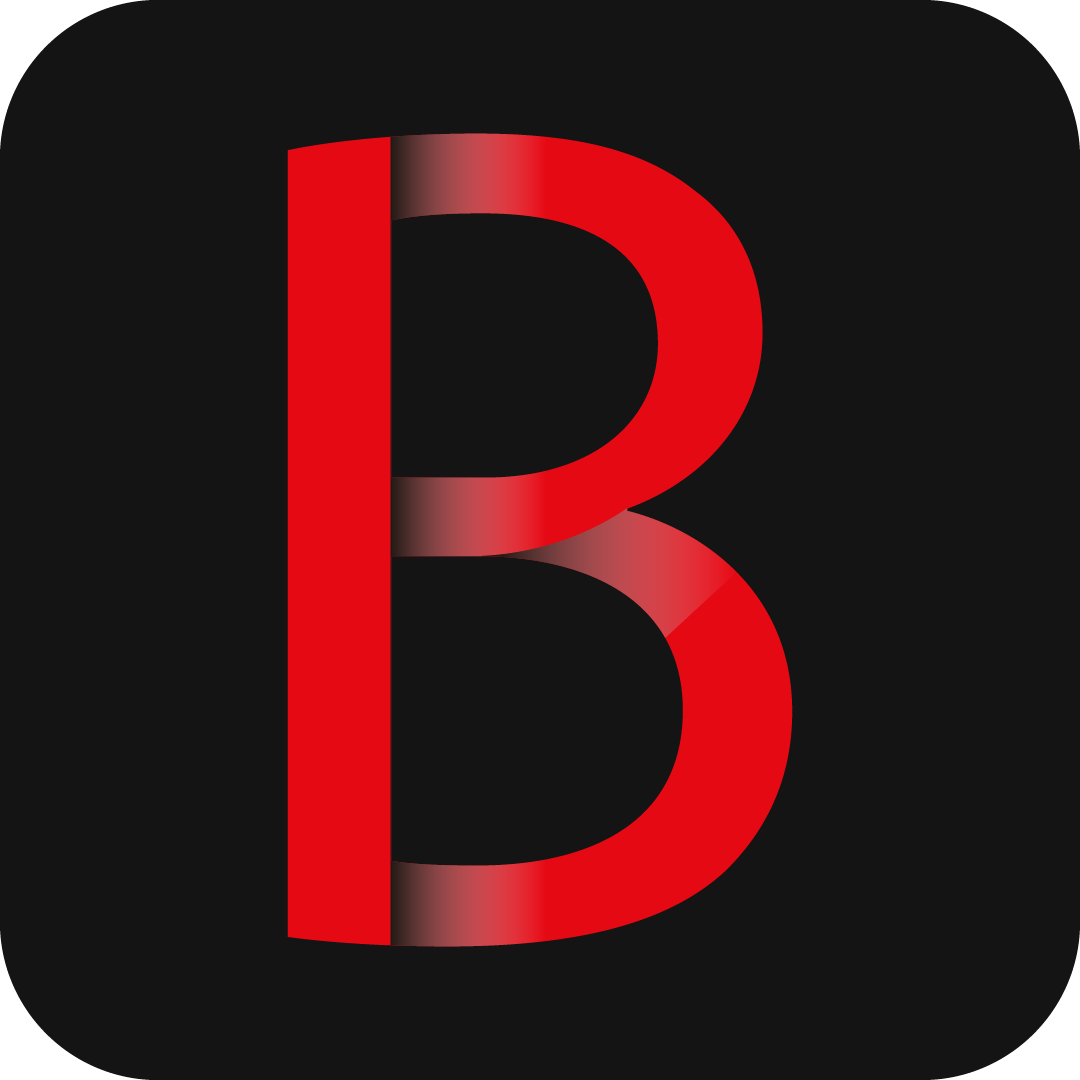
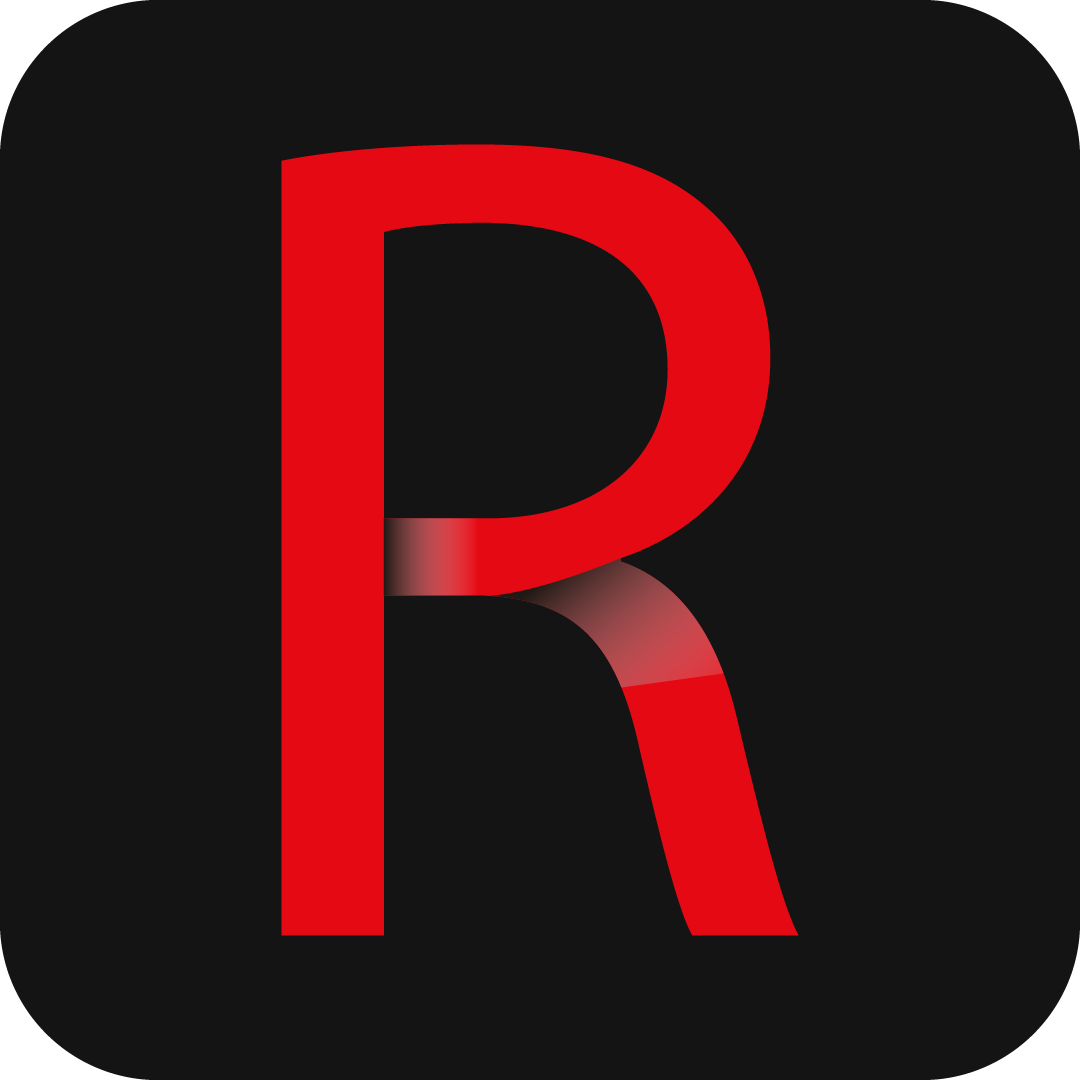
rocketflix blasted!

diff --git a/public/index.html b/public/index.html
@@ -25,7 +25,7 @@
       work correctly both with client-side routing and a non-root public URL.
       Learn how to configure a non-root public URL by running `npm run build`.
     -->
-    <title>Bharaflix</title>
+    <title>Rocketflix</title>
   </head>
   <body>
     <noscript>You need to enable JavaScript to run this app.</noscript>
